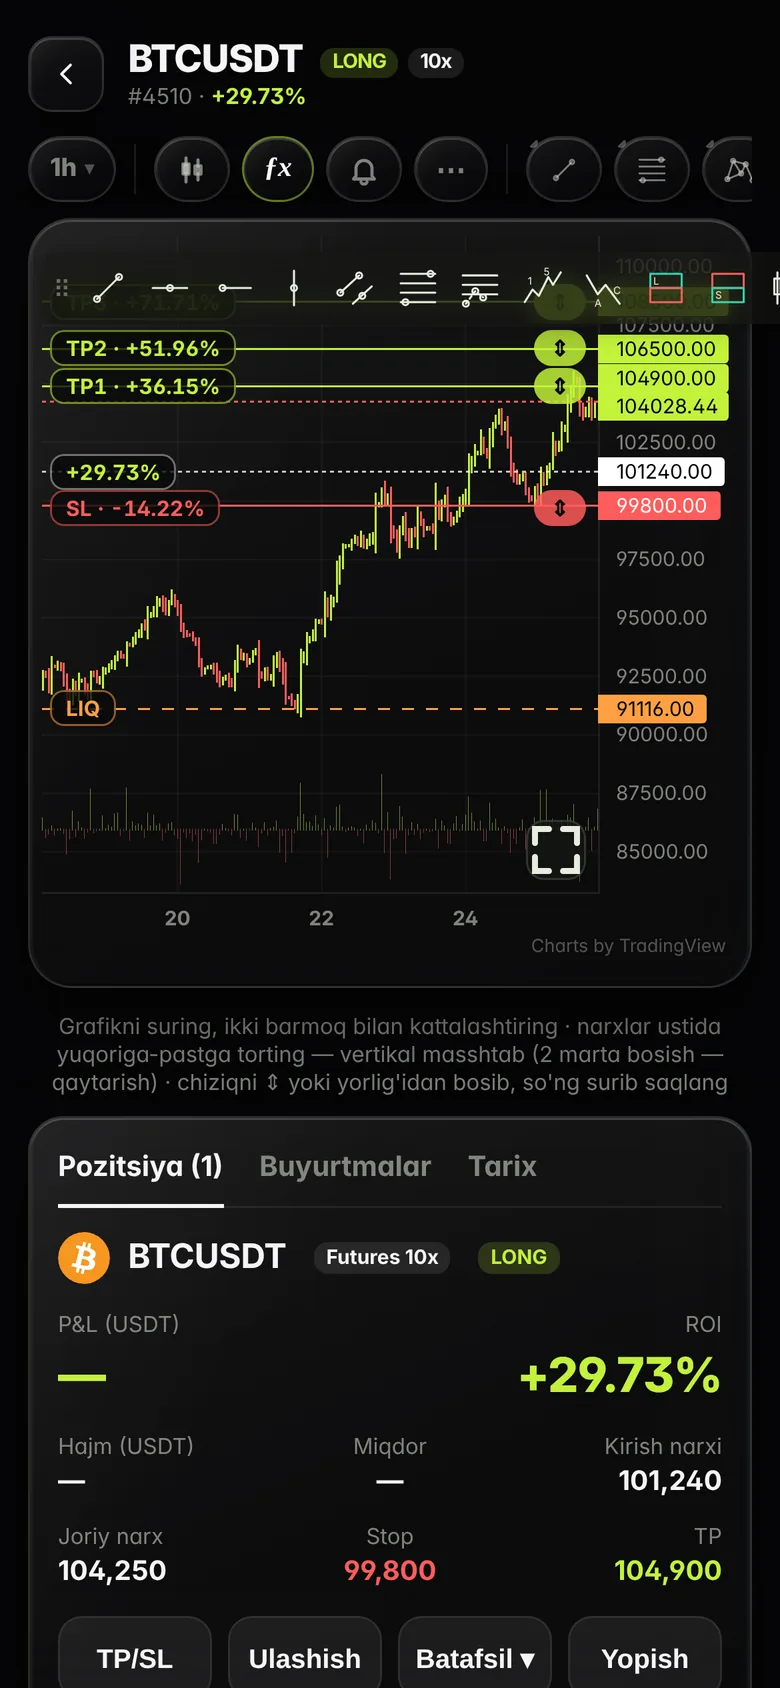
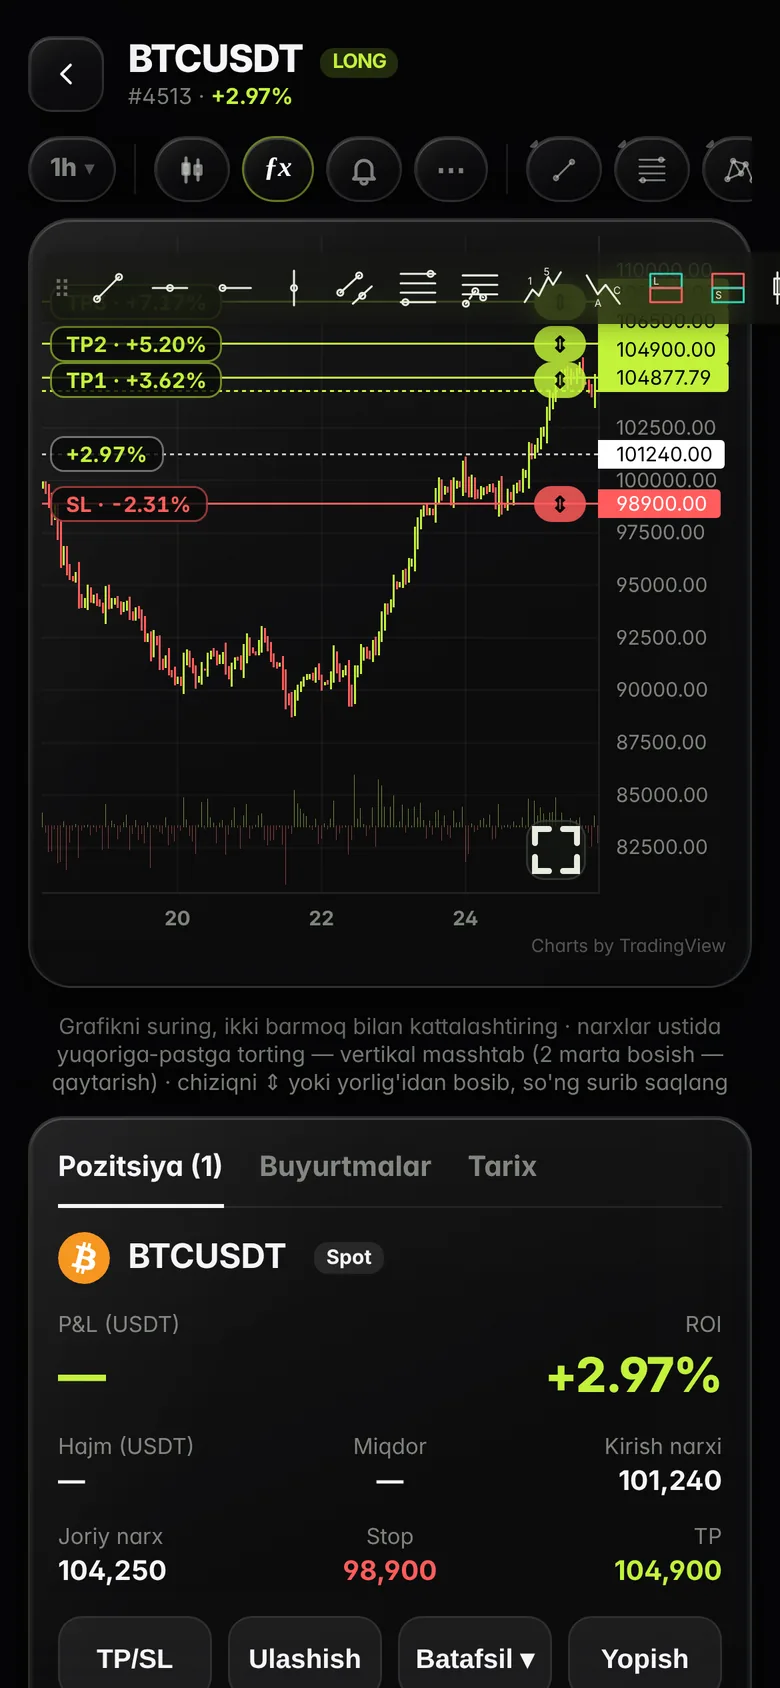
487d: landing — urg'u spotga: futures terminlari kamaytirildi, telefon skrinshoti spot signal bilan
Claude-Session: https://claude.ai/code/session_01L5NUTkWfmb7CHUXySzbLXX

diff --git a/landing/index.html b/landing/index.html
@@ -232,11 +232,11 @@ footer{padding:32px 0 44px;font-size:13px;color:var(--dim)}footer .wrap{display:
    <div class="term glass shine">
     <div class="tb"><span class="dots"><i></i><i></i><i></i></span><b>BTCUSDT</b><span class="px" id="hpx">107 150</span><span class="tf"><span>15m</span><span class="on">1h</span><span>4h</span><span>D</span></span></div>
     <div class="chart" id="hchart">
-     <div class="lvl tp"><b>TP 2 · +18.4%</b></div><div class="lvl en"><b>Kirish · LONG 10x</b></div><div class="lvl sl"><b>SL · −5%</b></div>
+     <div class="lvl tp"><b>TP 2 · +8.6%</b></div><div class="lvl en"><b>Kirish · SPOT BUY</b></div><div class="lvl sl"><b>SL · −3%</b></div>
     </div>
    </div>
-   <div class="fc f1 glass"><small>📣 Yangi signal</small><b>BTCUSDT LONG 10x</b><br>Kirish 98 400 · TP 104 000</div>
-   <div class="fc f2 glass"><small>Natija</small><b class="u">✓ TP2 · +18.4%</b></div>
+   <div class="fc f1 glass"><small>📣 Yangi signal · Spot</small><b>BTC/USDT · BUY</b><br>Kirish 98 400 · TP 104 000</div>
+   <div class="fc f2 glass"><small>Natija</small><b class="u">✓ TP2 · +8.6%</b></div>
    <div class="fc f3 glass"><span class="tgi"><svg viewBox="0 0 24 24" fill="#fff"><path d="M9.8 15.3l-.4 4.1c.6 0 .8-.2 1.1-.5l2.6-2.5 5.4 4c1 .5 1.7.3 2-.9L23.9 3.6c.3-1.5-.5-2.1-1.5-1.7L1.2 10.1c-1.4.6-1.4 1.4-.2 1.8l5.4 1.7L19 5.7c.6-.4 1.1-.2.7.2z"/></svg></span><span><b>Narx alerti</b><br><span style="color:var(--muted)">BTC 110 000 dan oshdi</span></span></div>
   </div>
  </div>
@@ -247,9 +247,9 @@ footer{padding:32px 0 44px;font-size:13px;color:var(--dim)}footer .wrap{display:
   <div class="glow"></div></div>
  <div class="stats">
   <div class="stat glass shine reveal"><svg class="sv sv-bars" viewBox="0 0 60 36"><rect x="1" y="30" width="8" height="6" rx="2"/><rect x="13" y="25" width="8" height="11" rx="2"/><rect x="25" y="19" width="8" height="17" rx="2"/><rect x="37" y="11" width="8" height="25" rx="2"/><rect x="49" y="2" width="8" height="34" rx="2"/></svg><b><span data-count="75" data-suffix="+">75+</span></b><span>chizma asbobi</span><small>trend, Fibonachchi, Gann, patternlar</small></div>
-  <div class="stat glass shine reveal"><svg class="sv sv-ring" viewBox="0 0 40 40"><circle class="sv-track" cx="20" cy="20" r="16"/><circle class="sv-fill" cx="20" cy="20" r="16" pathLength="100"/></svg><b><span data-count="24">24</span></b><span>indikator</span><small>Ichimoku, VP, CVD, OI, Funding…</small></div>
+  <div class="stat glass shine reveal"><svg class="sv sv-ring" viewBox="0 0 40 40"><circle class="sv-track" cx="20" cy="20" r="16"/><circle class="sv-fill" cx="20" cy="20" r="16" pathLength="100"/></svg><b><span data-count="24">24</span></b><span>indikator</span><small>Ichimoku, VP, CVD, RSI, MACD…</small></div>
   <div class="stat glass shine reveal"><div class="sv sv-coins" id="svc"></div><b><span data-count="__NEX__">__NEX__</span></b><span>birja + Dip Funded</span><small>balans, pozitsiya, order — bitta joyda</small></div>
-  <div class="stat glass shine reveal"><svg class="sv sv-pulse" viewBox="0 0 60 36"><polyline points="0,20 12,20 17,8 23,30 28,14 33,20 60,20"/></svg><b>24/7</b><span>avtomatik kuzatuv</span><small>TP, SL, likvidatsiya, alertlar</small></div>
+  <div class="stat glass shine reveal"><svg class="sv sv-pulse" viewBox="0 0 60 36"><polyline points="0,20 12,20 17,8 23,30 28,14 33,20 60,20"/></svg><b>24/7</b><span>avtomatik kuzatuv</span><small>TP, SL, narx alertlari</small></div>
  </div>
 </div></section>
 
@@ -257,14 +257,14 @@ footer{padding:32px 0 44px;font-size:13px;color:var(--dim)}footer .wrap{display:
  <div class="head reveal"><div><div class="eyebrow">Imkoniyatlar</div><h2 class="h2">Treyder va signal guruhi uchun<br><span class="tone">hammasi bitta ilovada</span></h2></div><p class="lead">Signal berasizmi, signal bilan savdo qilasizmi yoki o'zingiz tahlil qilasizmi — kerakli vosita shu yerda.</p></div>
  <div class="grid">
   <article class="card glass reveal"><div class="illo"><div class="tg">
-    <div class="msg">📣 <b>BTCUSDT LONG 10x</b><br>Kirish 98 400 · SL 95 000</div>
-    <div class="msg win">✅ <b>TP1</b> bajarildi · +6.2%</div>
-    <div class="msg win">🏁 <b>TP2</b> · signal yopildi · +18.4%</div></div></div>
-   <span class="num">01</span><h3 class="h3">Signal boshqaruvi</h3><p class="muted">Guruh va kanallarga signal yuboring — kirish, TP, SL, likvidatsiya avtomatik kuzatiladi, natija kartasi o'zi chiqadi.</p></article>
+    <div class="msg">📣 <b>BTC/USDT · Spot BUY</b><br>Kirish 98 400 · SL 95 000</div>
+    <div class="msg win">✅ <b>TP1</b> bajarildi · +3.1%</div>
+    <div class="msg win">🏁 <b>TP2</b> · signal yopildi · +8.6%</div></div></div>
+   <span class="num">01</span><h3 class="h3">Signal boshqaruvi</h3><p class="muted">Guruh va kanallarga signal yuboring — kirish, TP va SL avtomatik kuzatiladi, natija kartasi o'zi chiqadi.</p></article>
   <article class="card glass reveal wide"><div class="illo" id="ill-chart"><span class="chip">Ichimoku · Kumo</span></div>
    <span class="num">02</span><h3 class="h3">Professional grafik</h3><p class="muted">75+ chizma asbobi, 24 indikator, ★ sevimlilar paneli, o'ng tugma menyusi, replay va ko'p grafik — TradingView'ga o'xshash qulaylik.</p></article>
   <article class="card glass reveal wide"><div class="illo"><div class="wall" id="wall"></div></div>
-   <span class="num">03</span><h3 class="h3">Birjalar bitta joyda</h3><p class="muted">Binance, Bybit, Bitget, MEXC, BingX, Bitunix, Hyperliquid va boshqalar: balans, pozitsiyalar, order va TP/SL — grafikning o'zidan.</p></article>
+   <span class="num">03</span><h3 class="h3">Birjalar bitta joyda</h3><p class="muted">Binance, Bybit, Bitget, MEXC, BingX, Bitunix, Hyperliquid va boshqalar: spot balans, aktivlar, orderlar va TP/SL — grafikning o'zidan.</p></article>
   <article class="card glass reveal"><div class="illo"><svg viewBox="0 0 220 160">
     <defs><linearGradient id="rg" x1="0" y1="0" x2="1" y2="1"><stop offset="0" stop-color="#c2f23a"/><stop offset="1" stop-color="#c2f23a" stop-opacity="0"/></linearGradient></defs>
     <circle cx="60" cy="80" r="44" fill="none" stroke="rgb(255 255 255 / .08)" stroke-width="5"/><circle class="ring-spin" cx="60" cy="80" r="44" pathLength="100"/>
@@ -284,46 +284,45 @@ footer{padding:32px 0 44px;font-size:13px;color:var(--dim)}footer .wrap{display:
  </div>
  <div class="split">
   <div class="tx reveal"><div class="eyebrow">Chizmalar</div><h2 class="h2">75+ asbob — <span class="tone">TradingView'dan qolishmaydi</span></h2>
-   <ul><li>To'lqinlar (ABC, XABCD), trend chiziqlari, kanallar</li><li>Fibonacci darajalari, zonalar, long/short pozitsiya o'lchagichi</li><li>Sevimlilar paneli, sichqoncha o'ng tugmasi menyusi, magnit</li><li>Chizmalar har bir juftlik uchun saqlanadi</li></ul></div>
-  <div class="shot reveal"><div class="win glass"><div class="bar"><i></i><i></i><i></i><span>BTCUSDT · 1h</span></div><img class="one" loading="lazy" src="/l/r_btc.webp" alt="BTC: ABC to'lqinlar, trend chizig'i, Fibonacci va long pozitsiya"></div><div class="glow"></div></div>
+   <ul><li>To'lqinlar (ABC, XABCD), trend chiziqlari, kanallar</li><li>Fibonacci darajalari, zonalar, foyda/zarar o'lchagichi</li><li>Sevimlilar paneli, sichqoncha o'ng tugmasi menyusi, magnit</li><li>Chizmalar har bir juftlik uchun saqlanadi</li></ul></div>
+  <div class="shot reveal"><div class="win glass"><div class="bar"><i></i><i></i><i></i><span>BTCUSDT · 1h</span></div><img class="one" loading="lazy" src="/l/r_btc.webp" alt="BTC: ABC to'lqinlar, trend chizig'i, Fibonacci va maqsad o'lchagichi"></div><div class="glow"></div></div>
  </div>
 </div></section>
 
 <section class="sec" id="screens" style="padding-top:20px"><div class="wrap">
- <div class="head reveal"><div><div class="eyebrow">Ilova ichida</div><h2 class="h2">Haqiqiy <span class="tone">terminal</span> ko'rinishi</h2></div><p class="lead">Volume Profile, sessiyalar, chizmalar, likvidlik, bir ekranda 4 ta grafik va simulyator — hammasi bitta oynada, tez va tiniq.</p></div>
+ <div class="head reveal"><div><div class="eyebrow">Ilova ichida</div><h2 class="h2">Haqiqiy <span class="tone">terminal</span> ko'rinishi</h2></div><p class="lead">Volume Profile, sessiyalar, chizmalar, likvidlik va bir ekranda 4 ta grafik — hammasi bitta oynada, tez va tiniq.</p></div>
  <div class="shw reveal" id="shw">
   <div class="win glass"><div class="bar"><i></i><i></i><i></i><span>Trade Controller — Desktop</span></div>
    <div class="scr">
     <img class="on" src="/l/r_spx.webp" alt="SPX500: kunlik Volume Profile va umumiy profil" data-c="Volume Profile: har kunlik profil, Value Area chegaralari va o'ngda butun davr profili — SPX500, 1 soat">
-    <img loading="lazy" src="/l/r_btc.webp" alt="BTC: ABC to'lqinlar, trend chizig'i, Fibonacci va long pozitsiya" data-c="Chizmalar: ABC to'lqinlar, trend chizig'i, Fibonacci darajalari va long pozitsiya o'lchagichi — BTC, 1 soat">
+    <img loading="lazy" src="/l/r_btc.webp" alt="BTC: ABC to'lqinlar, trend chizig'i, Fibonacci va maqsad o'lchagichi" data-c="Chizmalar: ABC to'lqinlar, trend chizig'i, Fibonacci darajalari va maqsad o'lchagichi — BTC, 1 soat">
     <img loading="lazy" src="/l/r_sess.webp" alt="DOGE: Tokyo, London, New York sessiyalari, profil, RSI va Volume Delta" data-c="Sessiyalar: Tokyo, London, New York diapazonlari, sessiya profili, RSI va Volume Delta — DOGE, 15 daqiqa">
     <img loading="lazy" src="/l/r_liq.webp" alt="DOGE: hajm profili, zonalar va order book devorlari" data-c="Likvidlik: hajm profili, talab/taklif zonalari va order book'dagi yirik buyurtmalar — DOGE, 15 daqiqa">
     <img loading="lazy" src="/l/s_mc.webp" alt="Bir ekranda 4 ta grafik" data-c="Multi-chart: bitta juftlik 4 xil taymfreymda bir vaqtda">
-    <img loading="lazy" src="/l/s_sim.webp" alt="Simulyator: savdo paneli va pozitsiyalar" data-c="Simulyator: pul tikmasdan savdo, TP/SL, pozitsiyalar — va guruhga signal yuborish">
    </div></div>
   <div class="fc glass g1"><small>Volume Profile · POC</small><b>Value Area</b> <span class="up">▲ ko'p hajm</span></div>
   <div class="fc glass g2"><small>Order book</small><b>Yirik buyurtmalar</b><br><small>grafik ustida, real vaqtda</small></div>
-  <div class="fc glass g3"><small>BTCUSDT · Long pozitsiya</small><b class="up">+$3 059.88</b> <span class="up">+5.35%</span></div>
+  <div class="fc glass g3"><small>BTC/USDT · Spot maqsad</small><b class="up">+$3 059.88</b> <span class="up">+5.35%</span></div>
   <div class="glow"></div>
  </div>
  <p class="cap" id="shcap">Volume Profile: har kunlik profil, Value Area chegaralari va o'ngda butun davr profili — SPX500, 1 soat</p>
- <div class="tabs reveal" id="shtabs"><button class="on">Volume Profile</button><button>Chizmalar</button><button>Sessiyalar</button><button>Likvidlik</button><button>Multi-chart</button><button>Simulyator</button></div>
+ <div class="tabs reveal" id="shtabs"><button class="on">Volume Profile</button><button>Chizmalar</button><button>Sessiyalar</button><button>Likvidlik</button><button>Multi-chart</button></div>
 
  <div class="phs">
   <div class="reveal"><div class="eyebrow">Telefonda</div><h2 class="h2">Signal — <span class="tone">cho'ntagingizda</span></h2>
-   <ul><li>Telegram Mini App: o'rnatish shart emas, bot ichida ochiladi</li><li>Kirish, TP va SL chiziqlarini barmoq bilan surib o'zgartirasiz</li><li>Natija, ROI va likvidatsiya narxi real vaqtda</li><li>Ichimoku, Volume Delta va boshqa indikatorlar telefonda ham</li></ul>
+   <ul><li>Telegram Mini App: o'rnatish shart emas, bot ichida ochiladi</li><li>Kirish, TP va SL chiziqlarini barmoq bilan surib o'zgartirasiz</li><li>Natija va foiz o'zgarishi real vaqtda</li><li>Ichimoku, Volume Delta va boshqa indikatorlar telefonda ham</li></ul>
    <div class="cta" style="margin-top:30px"><a class="btn btn-p btn-lg" href="__TG__" target="_blank" rel="noopener">Telegram'da ochish</a></div></div>
   <div class="phw reveal" id="phw">
-   <div class="phone"><div class="sc"><div class="sb"><span>9:41</span><i></i></div><img loading="lazy" src="/l/s_ph.webp" alt="Telefonda signal terminali: BTCUSDT LONG 10x"></div></div>
-   <div class="fc glass p1"><small>BTCUSDT · LONG 10x</small><b class="up">TP1 104 900</b> yaqin</div>
-   <div class="fc glass p2"><small>ROI</small><b class="up" style="font-size:20px">+29.73%</b></div>
+   <div class="phone"><div class="sc"><div class="sb"><span>9:41</span><i></i></div><img loading="lazy" src="/l/s_ph.webp" alt="Telefonda spot signal terminali: BTC/USDT"></div></div>
+   <div class="fc glass p1"><small>BTC/USDT · Spot</small><b class="up">TP1 104 900</b> yaqin</div>
+   <div class="fc glass p2"><small>Natija</small><b class="up" style="font-size:20px">+2.97%</b></div>
    <div class="fc glass p3"><span class="ic">✓</span><div><b>Guruhga yuborildi</b><small>Whales Uzb · 1 240 a'zo</small></div></div>
   </div>
  </div>
 </div></section>
 
 <section class="sec" id="flow" style="padding-top:20px"><div class="wrap">
- <div class="head reveal"><div><div class="eyebrow">Order flow</div><h2 class="h2">Bozorni <span class="tone">ichidan</span> ko'ring</h2></div><p class="lead">Volume profile, Volume Delta, CVD, Order Book heatmap, Open Interest, Funding va likvidatsiyalar — professional treyderlar ishlatadigan ma'lumotlar.</p></div>
+ <div class="head reveal"><div><div class="eyebrow">Order flow</div><h2 class="h2">Bozorni <span class="tone">ichidan</span> ko'ring</h2></div><p class="lead">Volume profile, Volume Delta, CVD, sessiyalar va Order Book heatmap — professional treyderlar ishlatadigan ma'lumotlar.</p></div>
  <div class="split rev" style="margin-top:40px">
   <div class="tx reveal"><div class="eyebrow">Sessiyalar va profil</div><h2 class="h2">Hajm qayerda — <span class="tone">aniq ko'rasiz</span></h2>
    <ul><li>Kunlik va sessiya Volume Profile, POC va Value Area</li><li>Tokyo, London, New York diapazonlari foizlari bilan</li><li>Volume Delta, CVD, RSI — bitta oynada</li><li>Order book'dagi yirik buyurtmalar grafik ustida</li></ul></div>
@@ -361,7 +360,7 @@ footer{padding:32px 0 44px;font-size:13px;color:var(--dim)}footer .wrap{display:
   <details><summary>Birja API kalitim xavfsizmi?</summary><p>Faqat o'qish va savdo huquqi bilan kalit yarating — pul yechish huquqini yoqmang. Shunda kalit orqali mablag'ni chiqarib bo'lmaydi.</p></details>
   <details><summary>Kompyuter ilovasiga qanday kiriladi?</summary><p>Ilovada «Telegram orqali kirish»ni bosing, botda ilovadagi kod mos kelsa «Ha, bu men»ni tasdiqlang. Begona yuborgan kirish havolasini hech qachon tasdiqlamang. Barcha qurilmalardan chiqish — ilova menyusida yoki botda /desklogout.</p></details>
   <details><summary>Windows «noma'lum dastur» deb ogohlantiryapti</summary><p>«More info» → «Run anyway» bosing. Mac'da birinchi marta ilova ustida o'ng tugma → «Open».</p></details>
-  <details><summary>Simulyator nima?</summary><p>Virtual balans bilan haqiqiy narxlarda savdo mashqi. Xohlasangiz, pozitsiya bilan birga ulangan guruh/kanalingizga signal ham yuboriladi.</p></details>
+  <details><summary>Simulyator nima?</summary><p>Virtual balans bilan haqiqiy narxlarda savdo mashqi. Xohlasangiz, savdo bilan birga ulangan guruh/kanalingizga signal ham yuboriladi.</p></details>
  </div>
 </div></section>
 

diff --git a/CLAUDE.md b/CLAUDE.md
@@ -8848,3 +8848,4 @@ Foydalanuvchi: "xavfsizlik tomonlarini ko'rib chiq keraksiz narsalarni va eski i
 - Suratlarni yangilash kerak bo'lsa — xuddi shu nomlar bilan webp almashtiriladi (kesh 1 kun).
 - 487b: galereyaga foydalanuvchi bergan haqiqiy skrinshotlar qo'shildi — `landing/r_spx|r_btc|r_sess|r_liq.webp` (2000×1086; Volume Profile, chizmalar, sessiyalar, likvidlik). Mock `s_of/s_der` olib tashlandi; tablar: Volume Profile, Chizmalar, Sessiyalar, Likvidlik, Ichimoku, Multi-chart, Simulyator. Oyna nisbati 2000/1086.
 - 487c: skrinshotlar sahifa bo'ylab 5 joyda: hero ostida katta oyna (`.hshot`, r_liq + suzuvchi kartalar), Imkoniyatlar oxirida split (`.split`, r_btc — Chizmalar), Order flow'da stack (r_sess + r_spx; eski `#ill-vp` SVG o'rniga), Kompyuter ilovasi ostida multi-chart (`.dshot`, s_mc), yakuniy CTA fonida r_spx (`.final .bgs`, mask). Umumiy `.win`/`.shot` — scrollda qiyalikdan to'g'rilanadi. Ichimoku skrinshoti (s_ich) foydalanuvchi so'rovi bilan olib tashlandi.
+- 487d: landing'da urg'u spotga (foydalanuvchi: «futures materiallaridan kamroq foydalan»). Hero/signal kartalari «BTC/USDT · Spot BUY», foizlar spotga mos (+3.1 / +8.6%), likvidatsiya/funding/OI/leveraj so'zlari matnlardan olib tashlandi; telefon skrinshoti spot signal bilan qayta olindi (LIQ yo'q); futures simulyator skrinshoti (s_sim) galereyadan olib tashlandi. Yangi landing matnida futures terminlarini ishlatmaslik.
